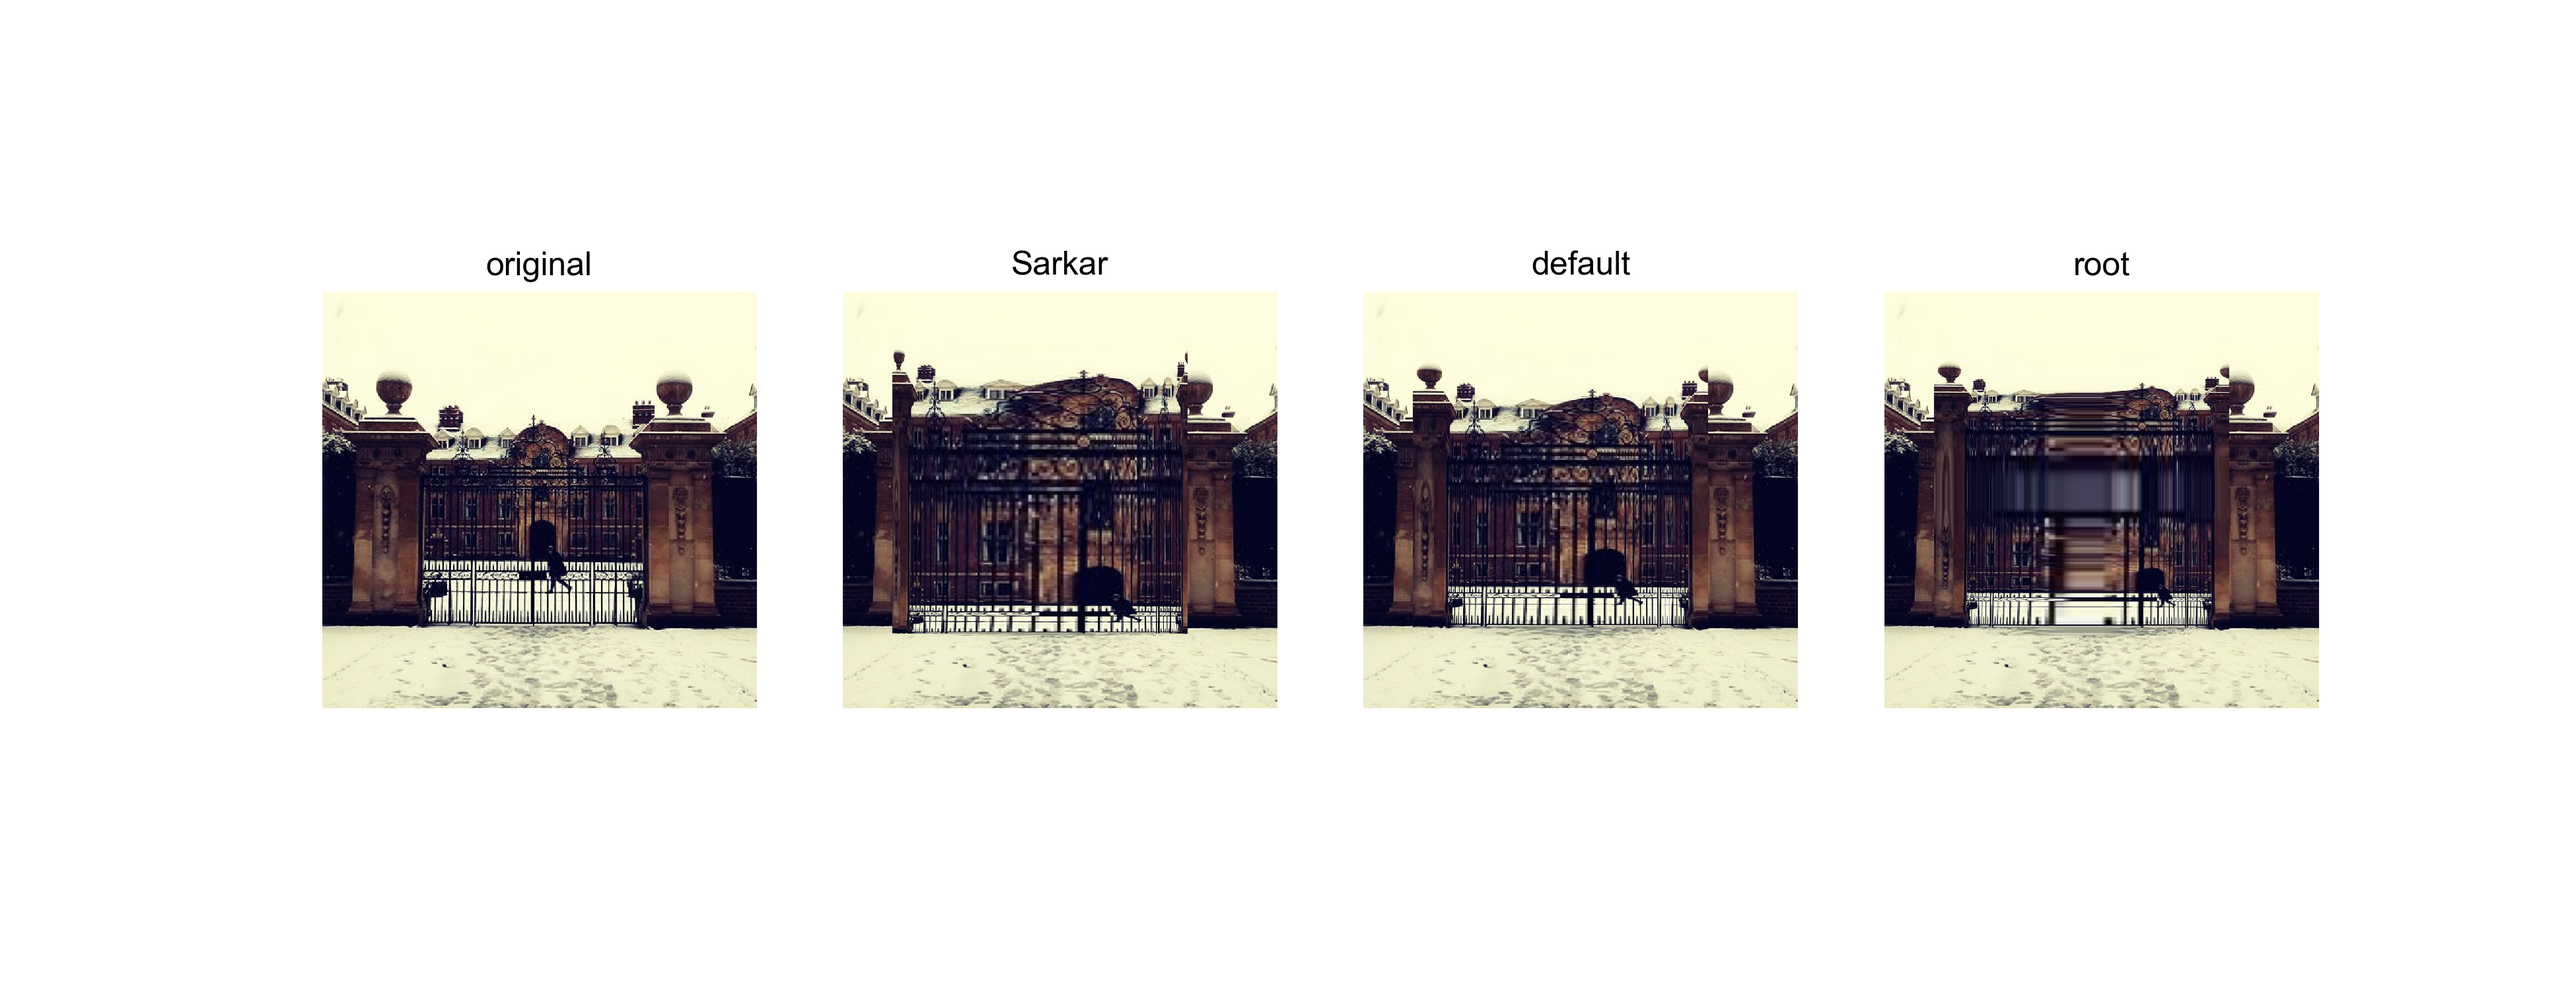
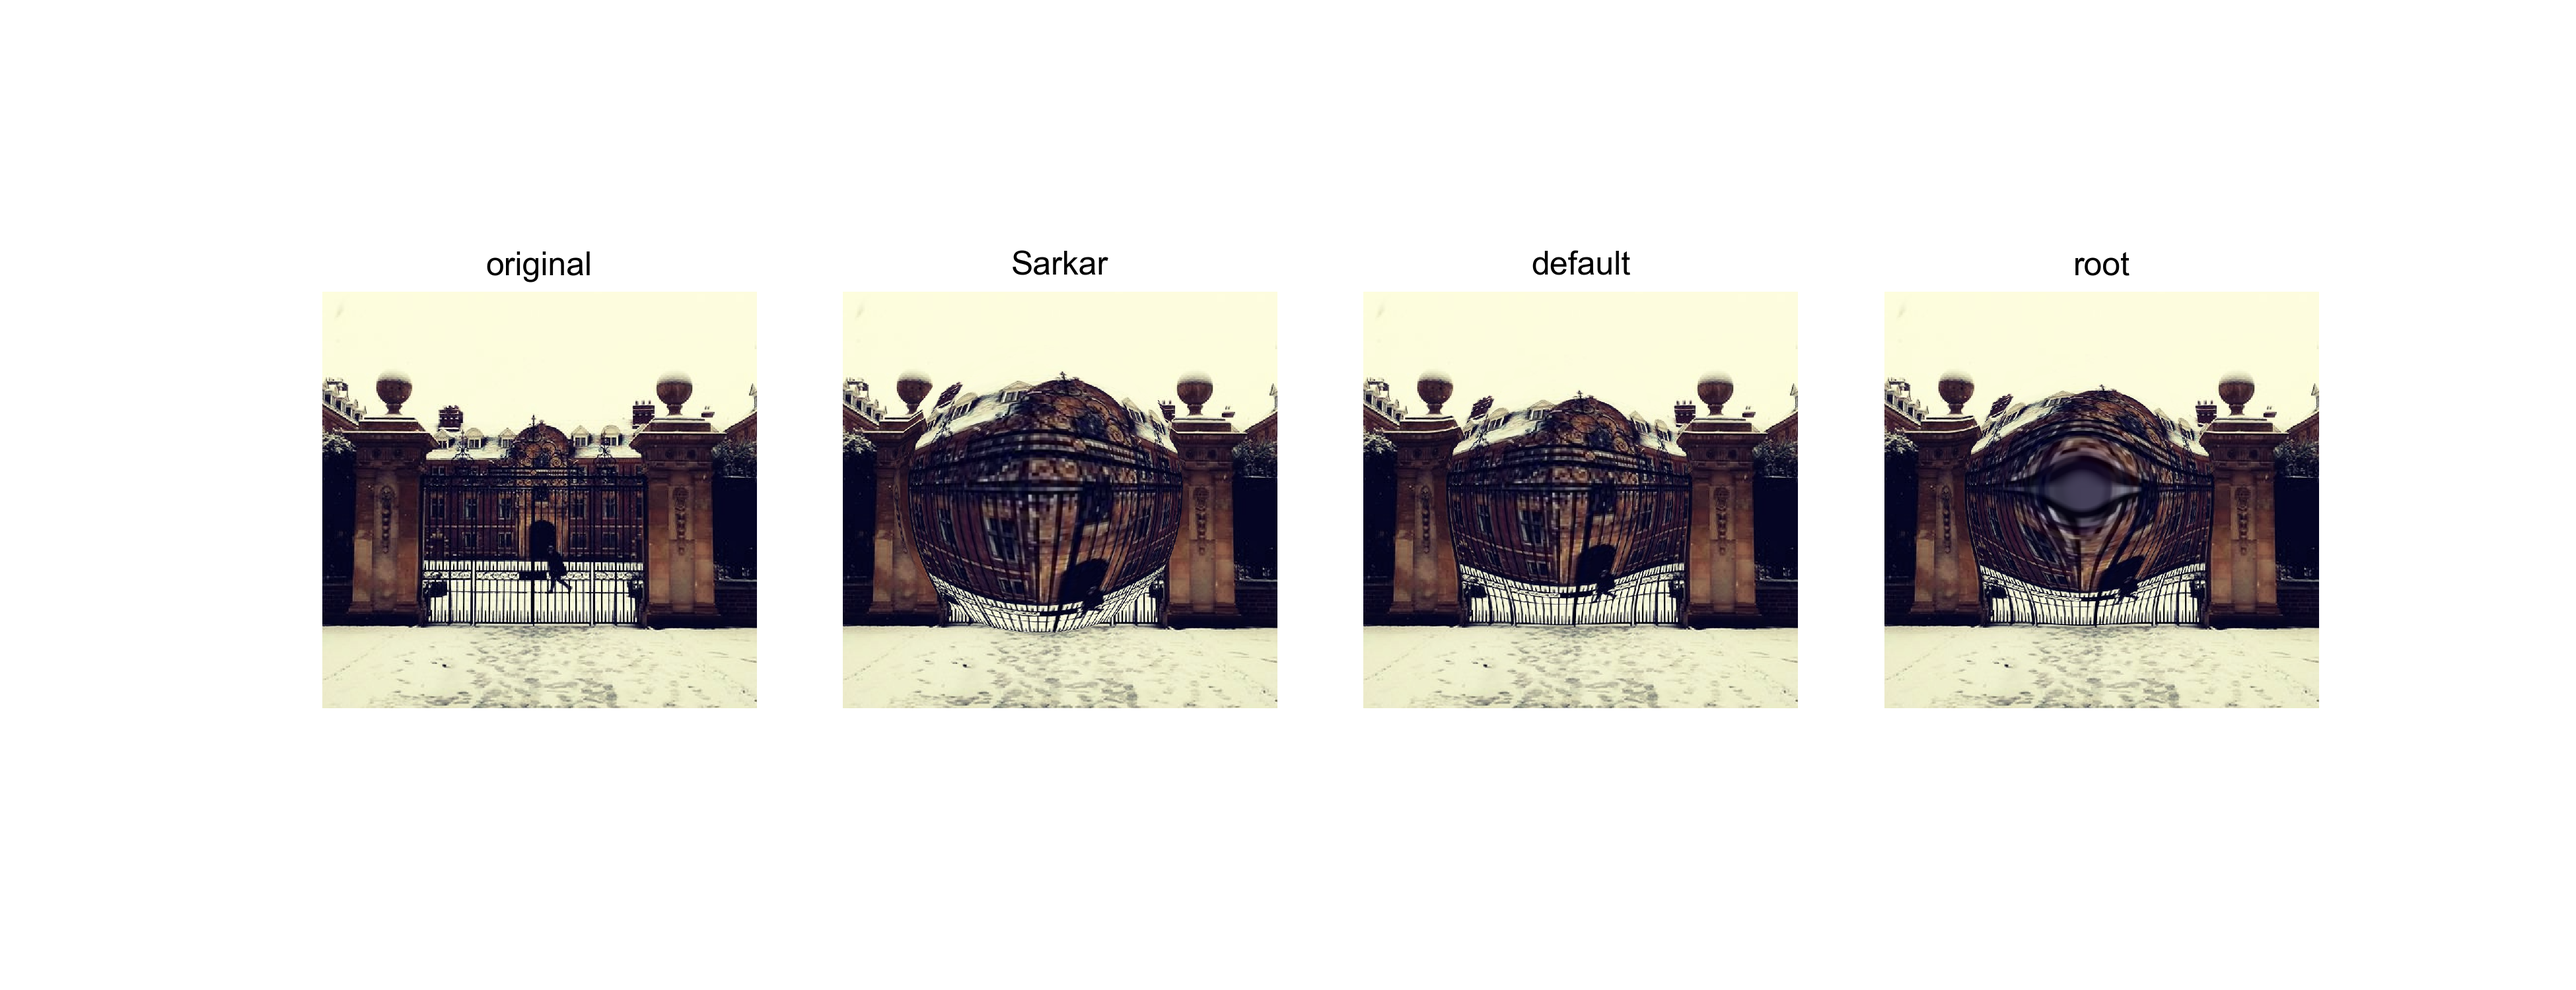
img better

Changed region(s): [[0.5274, 0.368, 0.6826, 0.644], [0.3413, 0.368, 0.4654, 0.644], [0.7446, 0.368, 0.8687, 0.644]]

diff --git a/sandbox/third_img_example.py b/sandbox/third_img_example.py
@@ -1,0 +1,36 @@
+import matplotlib.pyplot as pl
+import fisheye
+
+
+R = 300
+focus = [400,400]
+
+F = fisheye.fisheye(R)
+F.set_focus(focus)
+
+
+fig, ax = pl.subplots(1,4,figsize=(13,5))
+data = pl.imread('../sandbox/example.png')
+ax[0].imshow(data)
+ax[0].axis('off')
+ax[0].set_title('original')
+
+modes = ['Sarkar', 'default', 'root' ]
+ds = [3, 3, 3]
+xws = [0, 0.25, 0.25]
+
+for i in range(1,4):
+    F.set_mode(modes[i-1])
+    F.set_magnification(ds[i-1])
+    F.set_demagnification_width(xws[i-1])
+
+    transformed = fisheye.apply_to_image(data, F)
+
+    ax[i].imshow(transformed)
+    ax[i].axis('off')
+    ax[i].set_title(modes[i-1])
+
+
+fig.savefig('img_example.png',dpi=300)
+pl.show()
+

diff --git a/sandbox/img_example.py b/sandbox/img_example.py
@@ -1,7 +1,7 @@
 import matplotlib.pyplot as pl
 import fisheye
 
-data = pl.imread('../sandbox/example.tiff')
+data = pl.imread('./example.png')
 
 R = 300
 focus = [400.,400.]
